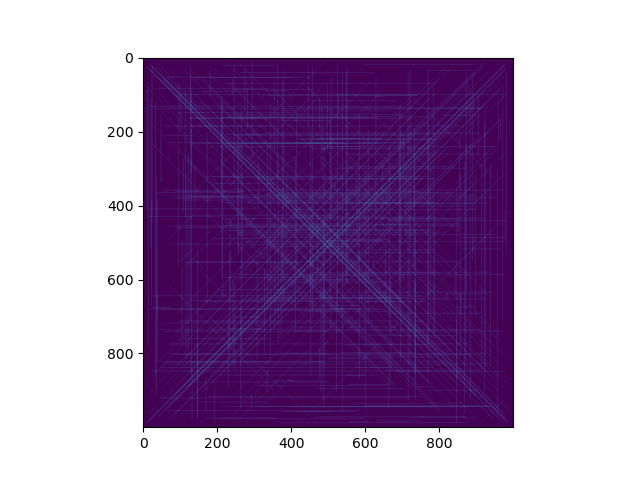
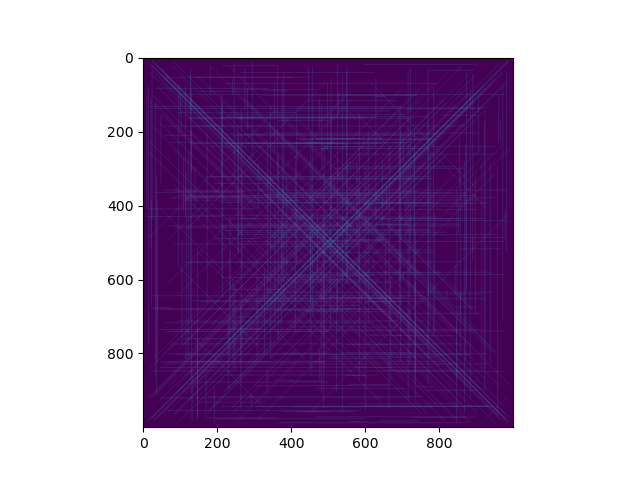
day 5 part 2 finished (careful with indexing)

diff --git a/advent_of_code/day_5.py b/advent_of_code/day_5.py
@@ -53,7 +53,7 @@ for diagonal_line in diagonal_lines.values():
         diagonal_line["start"]["x"] < diagonal_line["end"]["x"]
         and diagonal_line["start"]["y"] < diagonal_line["end"]["y"]
     ):
-        for i, j in zip(
+        for j, i in zip(
             range(
                 diagonal_line["start"]["x"],
                 diagonal_line["end"]["x"] + 1,
@@ -68,7 +68,7 @@ for diagonal_line in diagonal_lines.values():
         diagonal_line["start"]["x"] > diagonal_line["end"]["x"]
         and diagonal_line["start"]["y"] < diagonal_line["end"]["y"]
     ):
-        for i, j in zip(
+        for j, i in zip(
             range(diagonal_line["start"]["x"], diagonal_line["end"]["x"] - 1, -1),
             range(
                 diagonal_line["start"]["y"],
@@ -80,7 +80,7 @@ for diagonal_line in diagonal_lines.values():
         diagonal_line["start"]["x"] > diagonal_line["end"]["x"]
         and diagonal_line["start"]["y"] > diagonal_line["end"]["y"]
     ):
-        for i, j in zip(
+        for j, i in zip(
             range(diagonal_line["start"]["x"], diagonal_line["end"]["x"] - 1, -1),
             range(diagonal_line["start"]["y"], diagonal_line["end"]["y"] - 1, -1),
         ):
@@ -89,7 +89,7 @@ for diagonal_line in diagonal_lines.values():
         diagonal_line["start"]["x"] < diagonal_line["end"]["x"]
         and diagonal_line["start"]["y"] > diagonal_line["end"]["y"]
     ):
-        for i, j in zip(
+        for j, i in zip(
             range(
                 diagonal_line["start"]["x"],
                 diagonal_line["end"]["x"] + 1,

diff --git a/worksheet.py b/worksheet.py
@@ -1,2 +1,2 @@
-for i in range(6, 0, -1):
-    print(i)
+for i, j in zip(range(7, 14 + 1), range(9, 2 - 1, -1)):
+    print(i, j)
